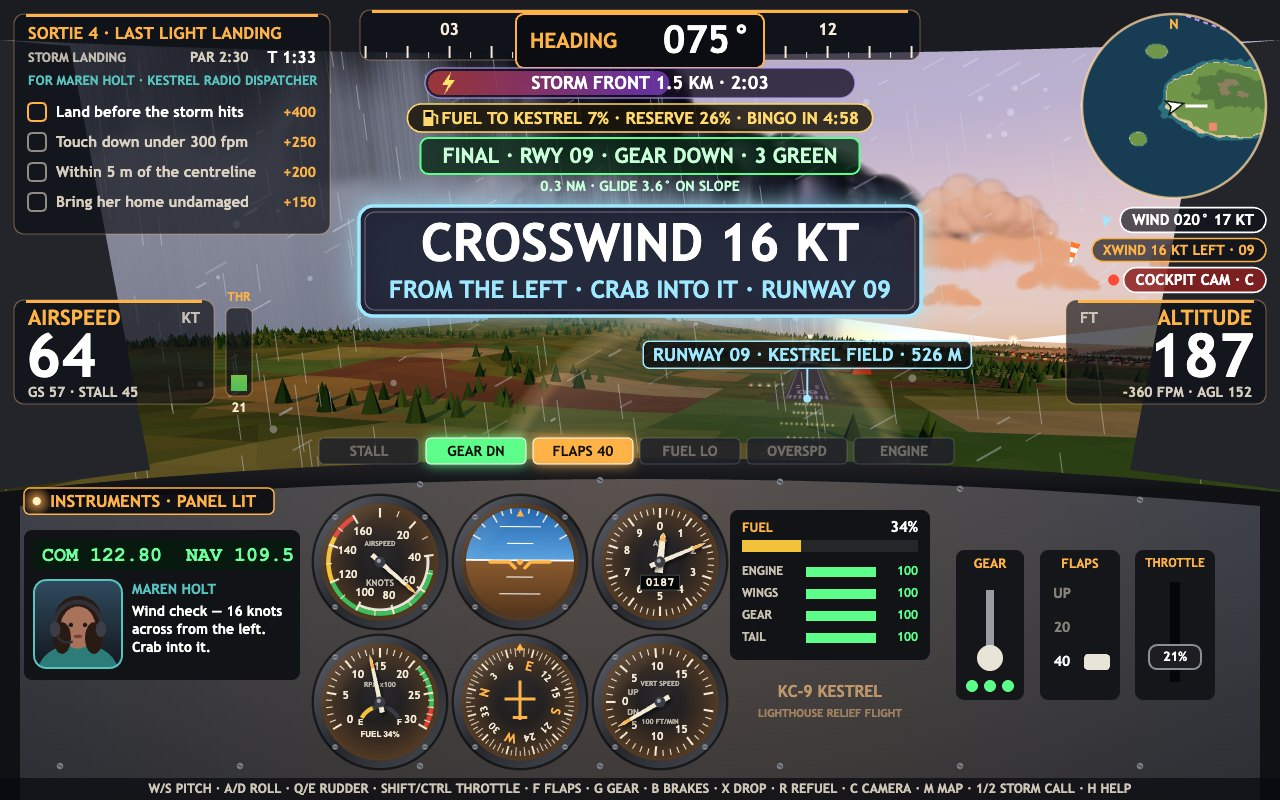
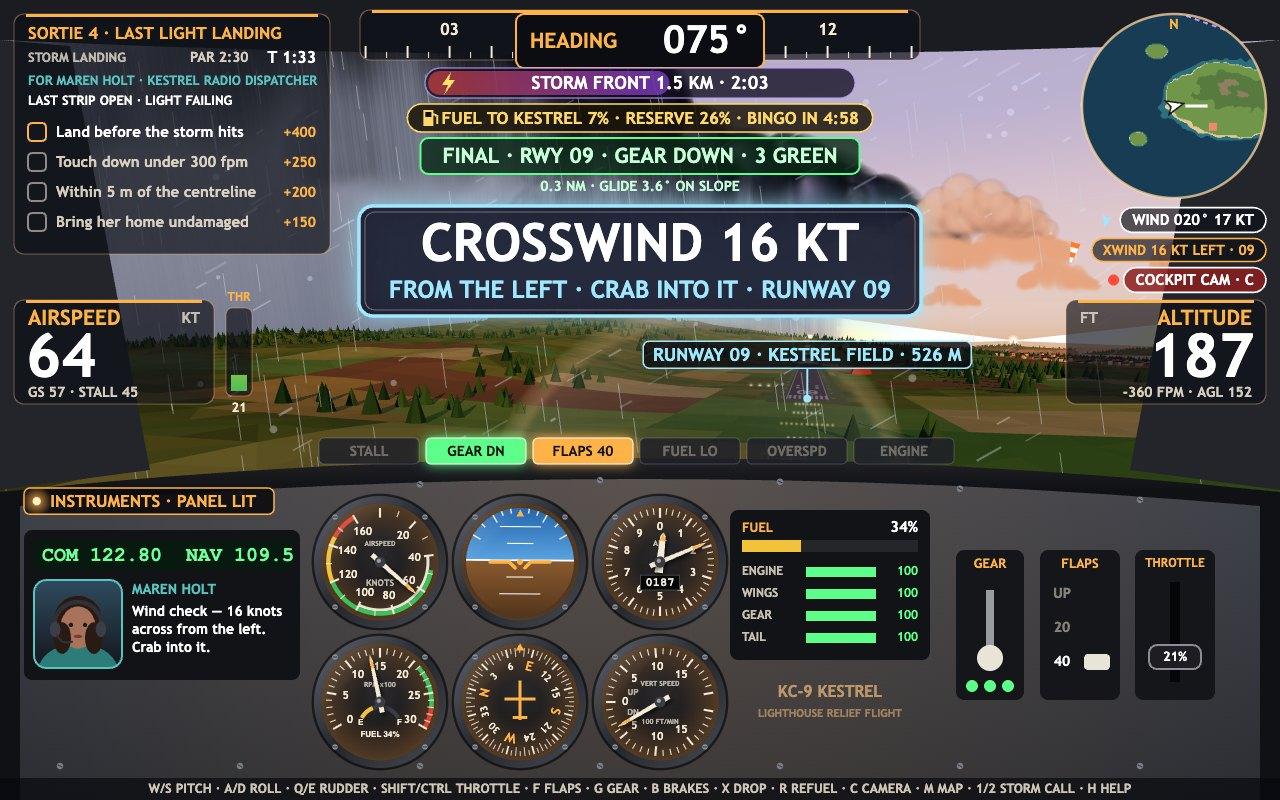
Each client's state in the checklist: beacons lit, insulin due, Finn's cold, the last strip; fuzz covers the new systems

Changed region(s): [[0.0, 0.0938, 0.2812, 0.3438]]

diff --git a/game/src/hud.js b/game/src/hud.js
@@ -7,7 +7,7 @@
 // (drama-callout.js).
 import { drawSixPack } from './gauges.js';
 import { drawMinimap } from './minimap.js';
-import { clock } from './missions.js';
+import { clientState, clock } from './missions.js';
 import { stormEta } from './storm-front.js';
 import { drawPortrait, speakerOf } from './radio-portraits.js';
 import { AIRSTRIPS, landingEnd, runwayThreshold } from './places.js';
@@ -135,7 +135,7 @@ function fuelPlanPill(g, cx, cy, session) {
 function objectivesPanel(g, x, y, session) {
   const w = 316;
   const rows = session.objectives.length;
-  const h = 100 + rows * 30;
+  const h = 120 + rows * 30;
   panel(g, x, y, w, h);
   const m = session.mission;
   text(g, `SORTIE ${m.number} · ${m.title.toUpperCase()}`, x + 14, y + 20, 17, AMBER);
@@ -145,8 +145,11 @@ function objectivesPanel(g, x, y, session) {
   text(g, `T ${clock(session.time)}`, x + w - 14, y + 44, 16, overPar ? RED : '#ffffff', 'right', 800);
   const client = speakerOf(m.client.who);
   text(g, `FOR ${client.name} · ${client.role.toUpperCase()}`, x + 14, y + 67, 13, client.colour, 'left', 800);
+  const state = clientState(session);
+  const blink = state.urgent && Math.floor(session.time * 2) % 2 === 0;
+  text(g, state.text, x + 14, y + 87, Math.min(13, (13 * (w - 28)) / measure(g, state.text, 13, 800)), state.urgent ? (blink ? '#ff8a75' : RED) : '#ffffff', 'left', 800);
   session.objectives.forEach((o, i) => {
-    const ry = y + 98 + i * 30;
+    const ry = y + 118 + i * 30;
     const next = !o.done && session.objectives.slice(0, i).every((p) => p.done || p.id === 'par');
     g.strokeStyle = o.done ? GREEN : next ? AMBER : 'rgba(246,236,216,0.55)';
     g.lineWidth = 2;

diff --git a/game/src/missions.js b/game/src/missions.js
@@ -138,6 +138,29 @@ export function scoreSortie(session) {
   return { objectivePoints, landingPoints, fuelPoints, timePoints, total, stars };
 }
 
+/**
+ * How the islander the sortie is for is faring right now, for the checklist: the boats steering
+ * by the lit beacons, the insulin's due time, Finn getting colder in the skiff until the crate
+ * reaches him, or the last strip's light. Returns { text, urgent }.
+ */
+export function clientState(session) {
+  const m = session.mission;
+  if (m.id === 'rings') {
+    const lit = session.rings.filter((r) => r.passed).length;
+    return { text: lit === session.rings.length ? 'ALL BEACONS LIT · THE FLEET IS SAFE' : `${lit}/${session.rings.length} BEACONS LIT · BOATS STEERING HOME`, urgent: lit < 4 };
+  }
+  if (m.id === 'mail') {
+    const left = m.par - session.time;
+    return { text: left > 0 ? `MRS KERR'S INSULIN DUE IN ${clock(left)}` : 'INSULIN OVERDUE · MRS KERR IS WAITING', urgent: left < 60 };
+  }
+  if (m.id === 'rescue') {
+    if (session.crate?.landed && session.crate.missBy <= 60) return { text: 'FINN HAS THE CRATE · WARM AND WAITING', urgent: false };
+    const cold = Math.min(100, Math.round(20 + session.time * 0.22));
+    return { text: `FINN ADRIFT · COLD ${cold}%`, urgent: cold > 60 };
+  }
+  return { text: session.storm.closed ? 'THE COAST IS CLOSED · GET DOWN' : `LAST STRIP OPEN · LIGHT FAILING`, urgent: session.storm.km < 1 };
+}
+
 /** Clock text m:ss. */
 export function clock(seconds) {
   const s = Math.max(0, Math.floor(seconds));
